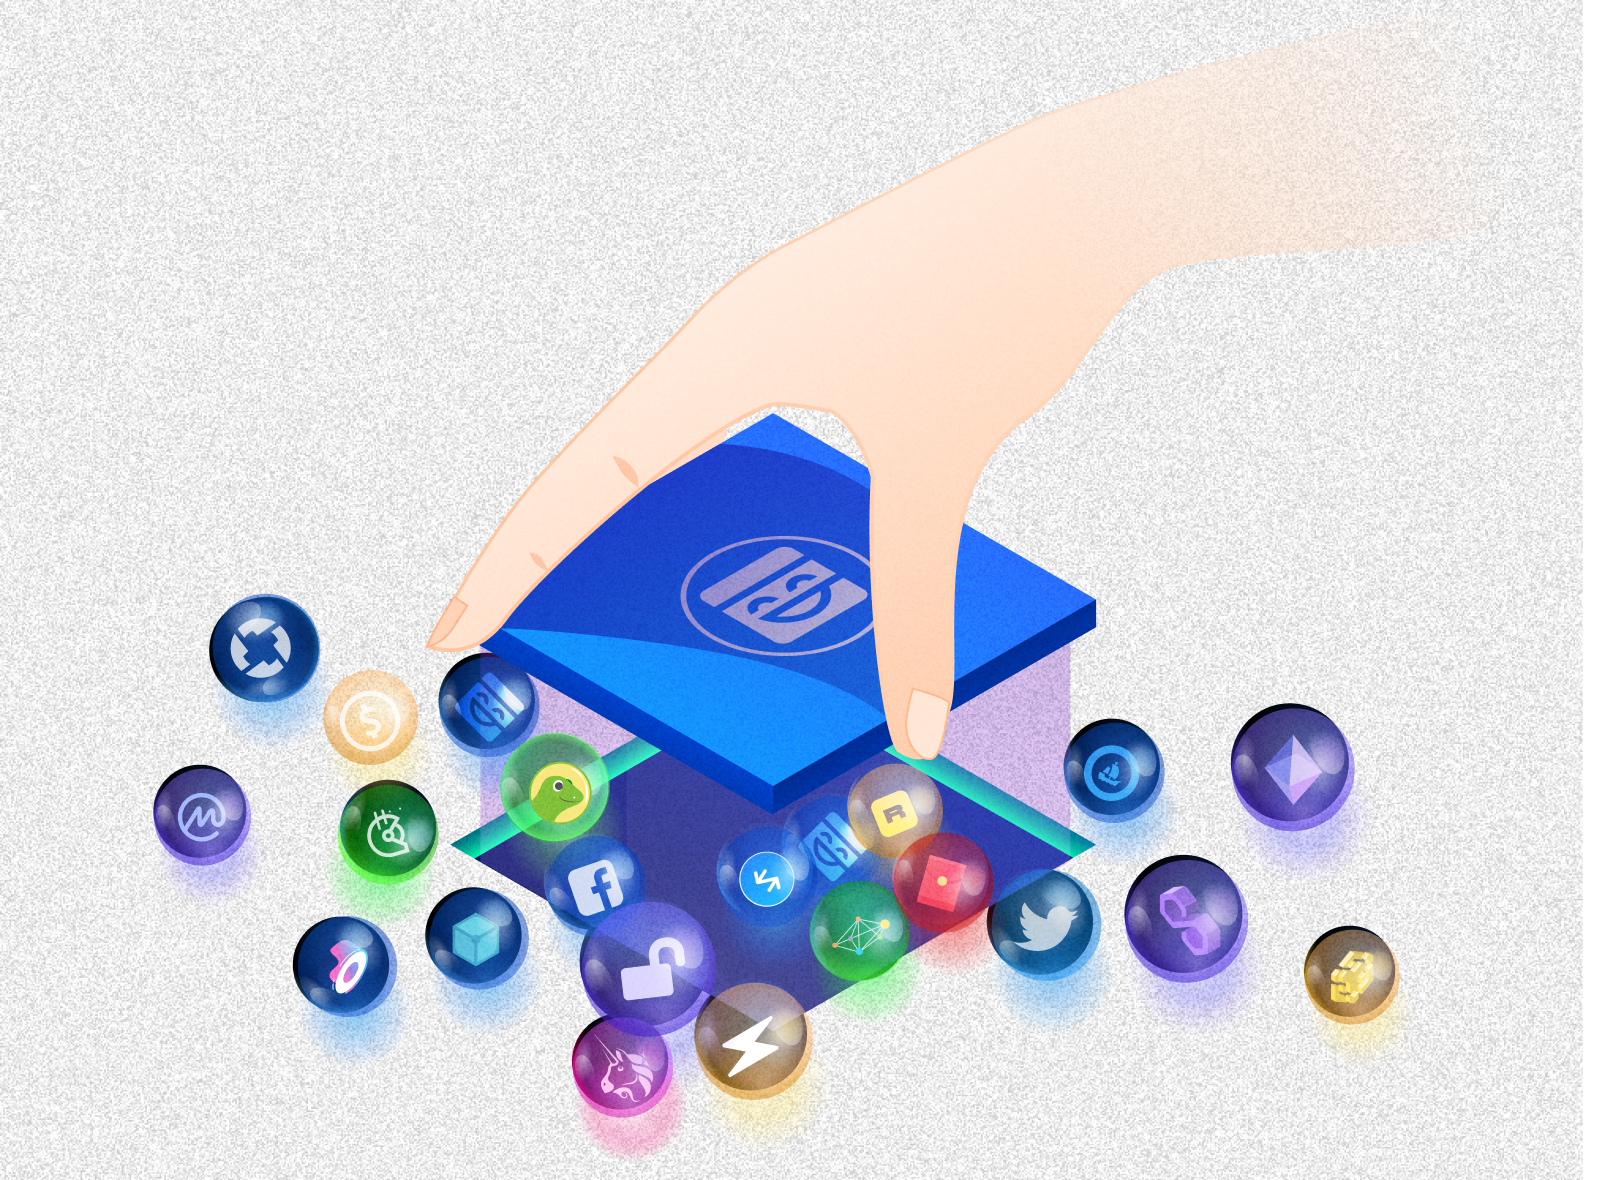
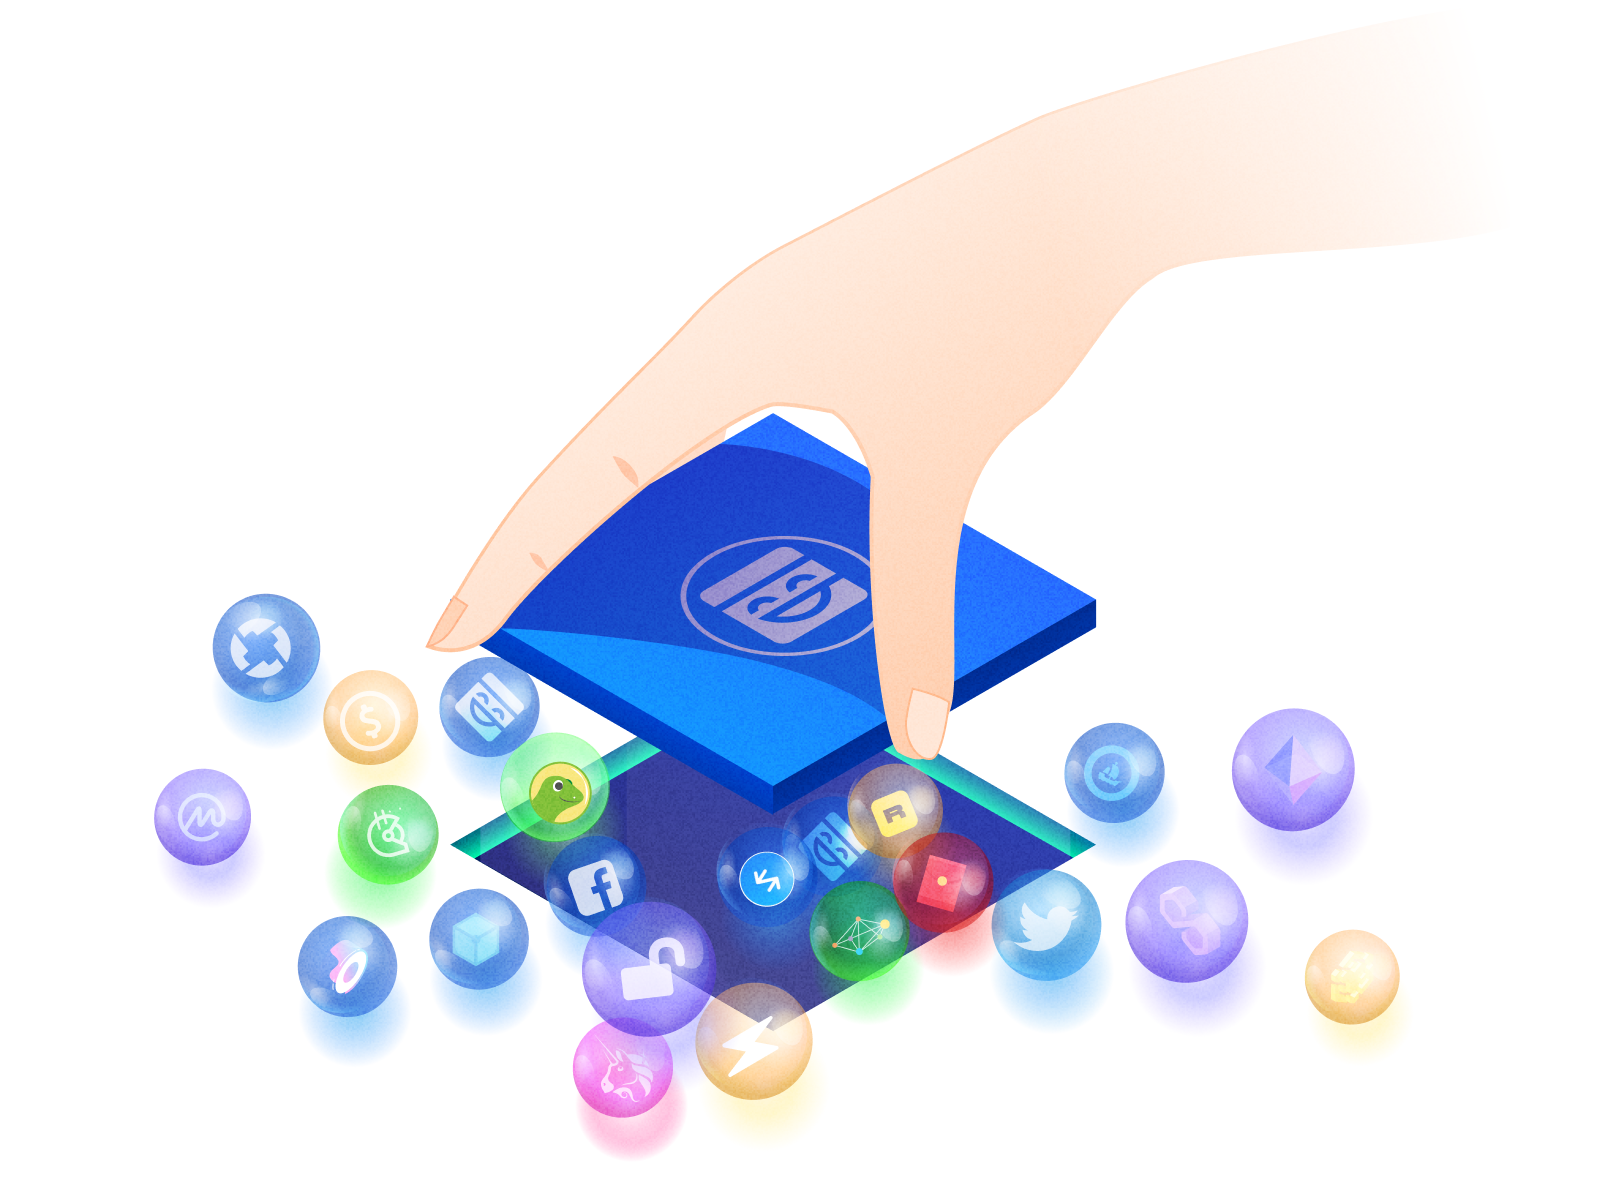
update what.png

Changed region(s): [[0.0, 0.0, 0.9877, 1.0], [0.463, 0.3356, 0.5247, 0.3661]]

diff --git a/src/views/Home.vue b/src/views/Home.vue
@@ -28,7 +28,7 @@
               <p class="subTitle black">The defenders to data autonomy.</p>
             </div>
             <div>
-              <img class="mainBoxImg" src="../assets/img_1.png" alt="" srcset="">
+              <img class="mainBoxImg" src="../assets/img_1.png" alt="" srcset="" style="mix-blend-mode: multiply">
             </div>
           </div>
           <div class="secView">
